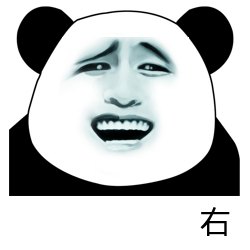
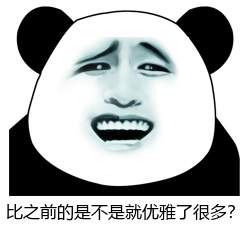
调整例子以符合文章

Changed region(s): [[0.028, 0.812, 0.952, 0.952]]

diff --git a/ml-on-py-examples/examp-1.2/char_analysis.py b/ml-on-py-examples/examp-1.2/char_analysis.py
@@ -1,19 +1,17 @@
+#!/usr/bin/python3
 # -*- coding:utf-8 -*-
 #__author__ = 'akers'
-from PIL import Image, ImageDraw, ImageFont
-from io import BytesIO
-import numpy as np
-import win32clipboard as clip
 import sys
-import platform
-import win32con
+from PIL import Image, ImageDraw, ImageFont
+import numpy as np
 import matplotlib.pyplot as plt
 from pylab import mpl
 from scipy.optimize import leastsq
+import random
+
 
 CONST_IMG_WIDTH = 250
 CONST_IMG_HEIGH = 250
-
 
 def main(argv):
     mpl.rcParams['font.sans-serif'] = ['FangSong']  # 指定默认字体
@@ -22,74 +20,71 @@ def main(argv):
     target = Image.new(
         'RGBA', (CONST_IMG_WIDTH, CONST_IMG_HEIGH), (255, 255, 255, 255))
     draw = ImageDraw.Draw(target)
-    xd = []
-    yd = []
     # 准备分析数据
-    for i in range(1, 31):
+    font_num = []
+    text_size = []
+    for i in range(1, 500):
         imageFont = ImageFont.truetype('./resources/msyh.ttc', i)
-        txtSize = draw.textsize("字", font=imageFont)
-        yd.append(txtSize)
-        xd.append(i)
-        print("字号{}，大小{}".format(i, txtSize))
-    fontWidthAnalysis(yd, xd)
+        char_size = draw.textsize("字", font=imageFont)
+        text_size.append((char_size[0] + random.randint(-10,10), char_size[1]))
+        font_num.append(i)
+
+
+    # scatter画出散点图，以字号为x轴，字体宽度为y轴
+    # 在分析前，先绘制散点图，对大致的函数形状进行分析
+    plt.scatter(list(map(lambda x: x[0], text_size)), font_num, 1, color="b", label=u"字体宽度")
+
+
+    #将字体大小数据用numpy转化成一个二维数组
+    _font_size_np = np.array(text_size)
+    #将字号转换为numpy数组
+    _font_num_np = np.array(font_num)
+    Y = _font_size_np[:,0]
+    X = _font_num_np
+
+    # 使用最小二乘拟合绘制对散点进行函数拟合
+    def func_shape(p, x):
+        """定义函数形状，哈哈哈，就是 y = kx+b 直线！
+        Args:
+            p: 常数
+            x: 自变量
+        Returns:
+            函数运算求得的因变量
+        """
+        k,b = p
+        return k*x + b
+
+    def func_err(p, x, y):
+        """定义误差函数
+        Args:
+            p: 常数
+            x: 自变量
+            y: 验证因变量
+        Returns:
+            返回函数运算结果与验证因变量之间的误差值
+        """
+        return func_shape(p, x) - y
+
+    # 定义常数的起始值，例如从 y = x + 0开始尝试，p0的取值会影响到求解效率
+    p0 = [1,0]
+
+    # 使用leastsq进行拟合
+    # 此处注意args是一个元组：(自变量，因变量)，自变量和因变量都为numpy数组
+    # 简单粗暴的描述就是，对于args[0]数组里的每个X，都用不同的常数进行计算，最终再跟所有的Y进行比较，得出最优的常数组合从而求解出其拟合函数
+    r = leastsq(func_err, p0, args=(_font_size_np[:,0], _font_num_np))
+    # 计算结果中的r[0]为一个元组，为求得的k和b
+    k, b = r[0]
+    # 最后我们得出结论，拟合结果为y = x
+    print("k=",k,"b=",b, "r=", r)
+    # 画出拟合线，以字号为X轴，函数运算结果为Y轴
+    plt.plot(X,func_shape((k, b), X),color="orange",label=u"字体宽度拟合",linewidth=2) 
+
 
     plt.ylabel(u'字体大小')
     plt.xlabel(u'字号')
     plt.legend()
     plt.show()
 
-# 分析字体大小与宽度的关系
-# yd中的数据为每个字号对应的字体大小：(width, heigh)
-# xd中的数据为每个字号
-def fontWidthAnalysis(yd, xd):
-    fontWidthData = []
-    fontHeightData = []
-    for p in yd:
-        fontWidthData.append(p[0])
-        fontHeightData.append(p[1])
-    #将数据转换成numpy数组，方便后续的操作
-    Y = np.array(fontWidthData)
-    X = np.array(xd)
-
-    # 使用最小二乘拟合绘制对散点进行函数拟合
-    # 定义函数形状，哈哈哈，就是 y = kx+b 直线！
-    # 那问题就来了，如果我不知道该贴合哪个曲线呢？
-    def func(p,x):
-        k,b = p
-        return k*x + b
-
-    # 使用leastsq进行拟合，第一个参数为误差函数
-    r = leastsq(lambda p,x,y: func(p,x) - y, [1, 0], args=(X, Y))
-    # 计算结果中的r[0]为一个元组，为求得的k和b
-    k, b = r[0]
-    # 最后我们得出结论，拟合结果为y = x
-    print("k=",k,"b=",b, "r=", r)
-
-    # 画出数据点
-    plt.plot(fontWidthData, xd, 'bo', label=u"字体宽度")
-
-    # 画出拟合线
-    plt.plot(k*X+b,X,color="orange",label=u"字体宽度拟合",linewidth=2) 
     
-    # 分析字体高度
-    Y = np.array(fontHeightData)
-    X = np.array(xd)
-    r = leastsq(lambda p,x,y: func(p,x) - y, [1, 0], args=(X, Y))
-    # 计算结果中的r[0]为一个元组，为求得的k和b
-    k, b = r[0]
-    # 最后我们得出结论，拟合结果为y = x
-    print("k=",k,"b=",b, "r=", r)
-    # 画出数据点
-    plt.plot(fontHeightData, xd, 'co', label=u"字体高度")
-
-    # 画出拟合线
-    plt.plot(k*X+b, X,color="yellow",label=u"字体高度拟合",linewidth=2) 
-
-    # 所以最后得出了结论：
-    # 字体宽度 = 字号
-    # 字体高度 = 1.1939933259181095 * 字号 + 0.2597701149430962
-    # 因此，我们可以得出：面积 = 字号 * (1.1939933259181095 * 字号 + 0.2597701149430962)
-    
-
 if __name__ == "__main__":
     main(sys.argv)

diff --git a/ml-on-py-examples/examp-1.2/operators/image.py b/ml-on-py-examples/examp-1.2/operators/image.py
@@ -34,7 +34,9 @@ def draw_emo(bg, face, txt):
     # 加入文本
     # target = draw_text(txt, target)
     # target = draw_text_v1(txt, target, off_set=200)
-    target = draw_text_v2(txt, target, off_set=(10, 200), allign='right')
+    # target = draw_text_v2(txt, target, off_set=(10, 200), allign='right')
+    # target = draw_text_v3(txt, target, off_set=(5, 200), allign='center')
+    target = draw_text_v4(txt, target, off_set=(5, 200), allign='center')    
     # target = draw_text(txt, target, off_set=(5, 200), allign='center')
     return target
 
@@ -193,21 +195,67 @@ def draw_text_v3(text, image, off_set=(0, 200), allign='center'):
     textLen = txtSize[0]
     fontSize = _DEFAULT_FONT_SIZE
     # 方法1：笨方法，不断减小字号，直到塞得下
-    # while (CONST_IMG_WIDTH <= textLen + 2*off_set[0]) and fontSize >= 10:
-    #     fontSize -= 1
-    #     imageFont = ImageFont.truetype('./resources/msyh.ttc', fontSize)
-    #     textLen = draw.textsize(text, imageFont)[0]
-    #     print("当前字号{}，文本宽度{}".format(fontSize, textLen))
+    while (CONST_IMG_WIDTH <= textLen + 2*off_set[0]) and fontSize >= 1:
+        fontSize -= 1
+        imageFont = ImageFont.truetype('./resources/msyh.ttc', fontSize)
+        textLen = draw.textsize(text, imageFont)[0]
+        print("当前字号{}，文本宽度{}".format(fontSize, textLen))
     # 问题1：如果减小到最小字号，仍然塞不下呢？如何处理换行问题？多少长度下需要换行？
     # 问题2：是否有更优雅的方法呢？
-    # 方法2：针对上面两个问题，再使用方法1这种简单粗暴的方式已经难以满足
-    # 通过使用数据分析手段，我们可以得出，每个字的宽和高与字号之间有以下关系
-    # width = fontSize
-    # heght = 1.1939933259181095 * fontSize + 0.2597701149430962
-    wk = 1.1939933259181095
-    wb = 0.2597701149430962
-    # 面积预估
-    while fontSize * len(text) > (CONST_IMG_WIDTH - 2*off_set[0]):
+    realTxtSize = draw.textsize(text, imageFont)
+
+
+    # 计算x坐标
+    pos_x = {
+        # 居中对齐
+        'center': lambda max_width, txt_len, off: (max_width / 2 - txt_len / 2 if max_width > txt_len else 0) + off,
+        # 左对齐
+        'left': lambda max_width, txt_len, off: (off if max_width > txt_len else 0),
+        # 右对齐
+        'right': lambda max_width, txt_len, off: (max_width - txt_len if max_width > txt_len else 0)
+    }[allign if allign in ('center', 'left', 'right') else 'center'](CONST_IMG_WIDTH - 2*off_set[0], realTxtSize[0], off_set[0])
+
+    print("当前X坐标", pos_x, ", max_width:", CONST_IMG_WIDTH - 2*off_set[0], ",text_len: ", realTxtSize[0])
+    # 默认显示位置
+    pos = (pos_x, off_set[1])
+
+    # 底图上的10,200位置写入文字
+    draw.text(pos, text, fill='black', font=imageFont)
+    del draw
+    return image
+
+def draw_text_v4(text, image, off_set=(0, 200), allign='center'):
+    """强化版绘制文字v4，默认使用30号的雅黑字体，
+        并尝试适应横向空间以及居中显示
+        如果文本过长自适应减少字号
+    Args:
+        text: 显示在图片上的文本
+        image: 当前正使用的Image
+        off_set: 偏移量，用于保留最小编剧，(x, y)以像素未单位
+        allign: 排版，left左对齐，center居中，right右对齐
+
+    Returns:
+        Image
+
+    Raises:
+
+    """
+    # 加入文字
+    # ImageDraw为PIL的绘图模块
+    _DEFAULT_FONT_SIZE = 30
+    draw = ImageDraw.Draw(image)
+    imageFont = ImageFont.truetype('./resources/msyh.ttc', _DEFAULT_FONT_SIZE)
+    _MAX_TXT_HEIGH = 32
+    txtSize = draw.textsize(text, imageFont)
+
+    # 处理过长的文本
+    textLen = txtSize[0]
+    fontSize = _DEFAULT_FONT_SIZE
+    # 方法2：通过简单的数据分析，我们研究出字体宽度 = 字体字号这一函数
+    def char_len(text_size):
+        return text_size
+    # 减小字号，直到 字数*单位宽度 适应空白区域宽度
+    while char_len(fontSize) * len(text) > (CONST_IMG_WIDTH - 2*off_set[0]):
         fontSize -= 1
 
     textLen = fontSize * len(text)
@@ -234,3 +282,8 @@ def draw_text_v3(text, image, off_set=(0, 200), allign='center'):
     draw.text(pos, text, fill='black', font=imageFont)
     del draw
     return image
+
+
+
+
+

diff --git a/ml-on-py-examples/examp-1.2/numpy_test.py b/ml-on-py-examples/examp-1.2/numpy_test.py
@@ -1,0 +1,18 @@
+# -*- coding:utf-8 -*-
+#__author__ = 'akers'
+import numpy as np
+
+print('使用列表生成一维数组')
+data = [1,2,3,4,5,6]
+x = np.array(data)
+print(x) #打印数组
+print(x.dtype) #打印数组元素的类型
+
+print('使用列表生成二维数组')
+data = [[1,2],[3,4],[5,6]]
+x = np.array(data)
+print(x) #打印数组
+print(x.ndim) #打印数组的维度
+print(x.shape) #打印数组各个维度的长度。shape是一个元组
+
+print(x[:])

diff --git a/ml-on-py-examples/examp-1.1/operators/image.py b/ml-on-py-examples/examp-1.1/operators/image.py
@@ -34,7 +34,7 @@ def draw_emo(bg, face, txt):
     # 加入文本
     # target = draw_text(txt, target)
     # target = draw_text_v1(txt, target, off_set=200)
-    target = draw_text_v2(txt, target, off_set=(10, 200), allign='right')
+    target = draw_text_v2(txt, target, off_set=(10, 200), allign='center')
     return target
 
 def draw_text(text, image):

diff --git a/ml-on-py-examples/examp-1.1/emofigther.py b/ml-on-py-examples/examp-1.1/emofigther.py
@@ -1,3 +1,4 @@
+#!/usr/bin/python3
 # -*- coding:utf-8 -*-
 #__author__ = 'akers'
 from io import BytesIO
